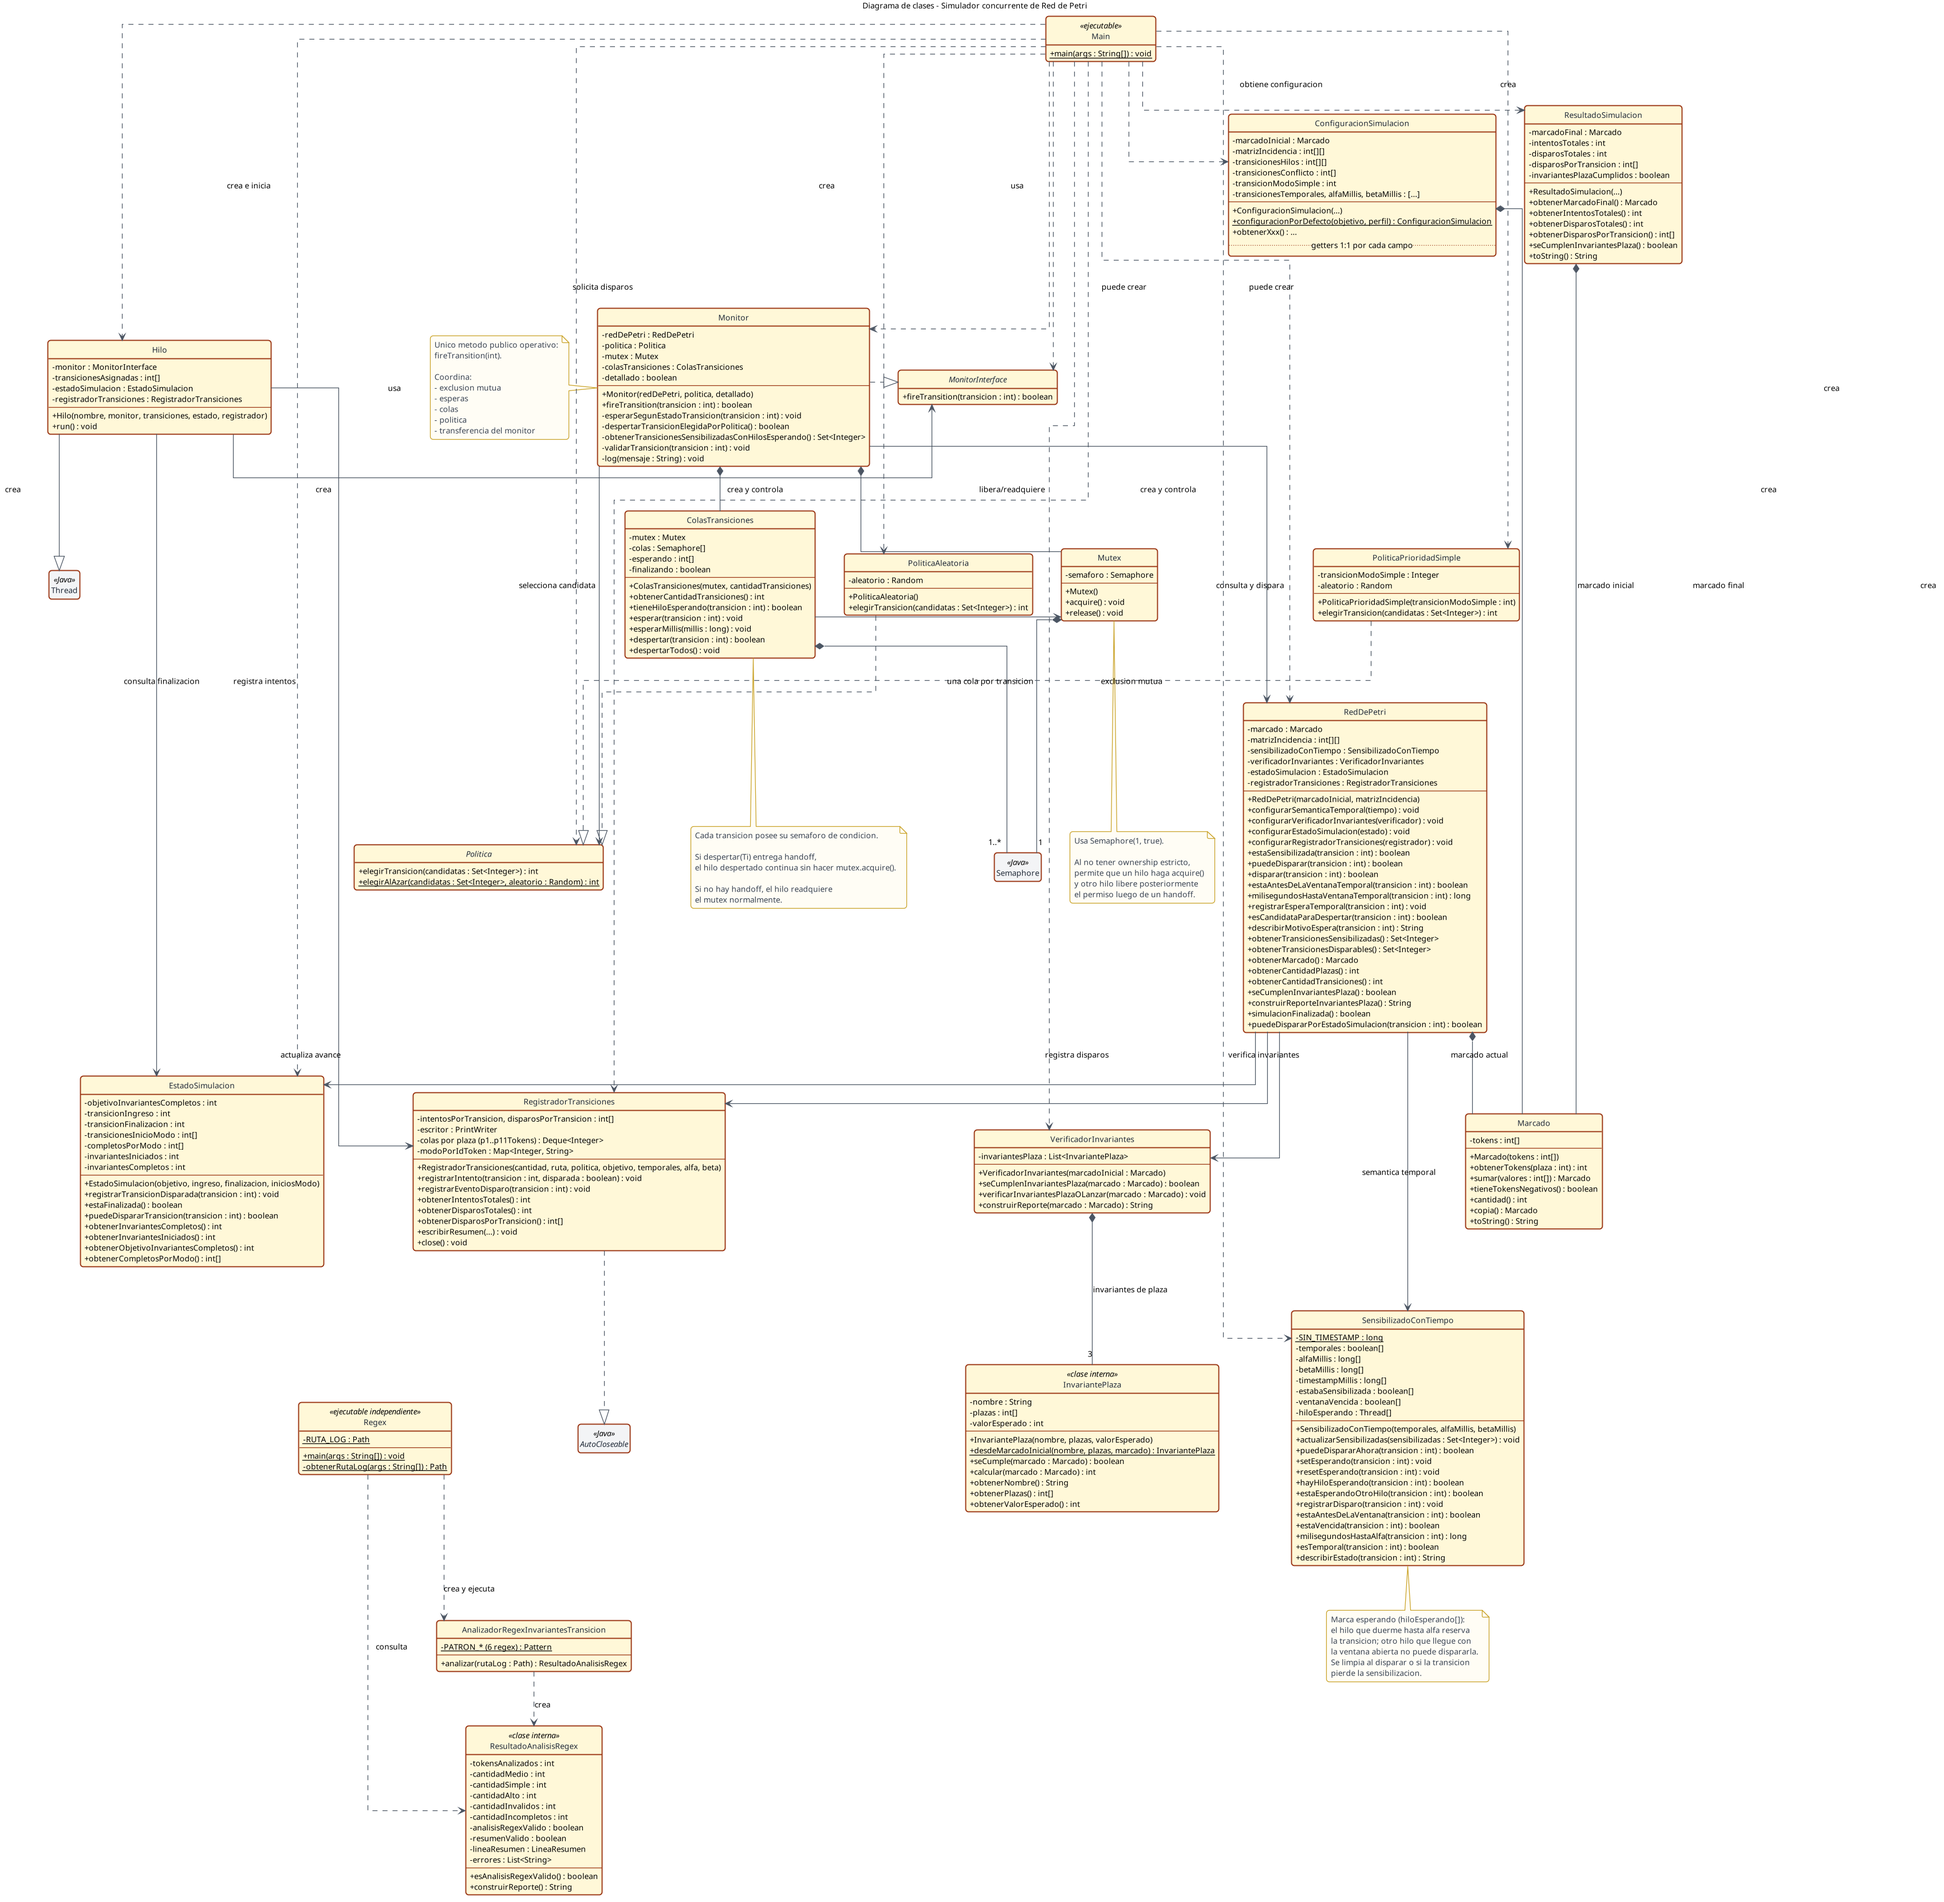
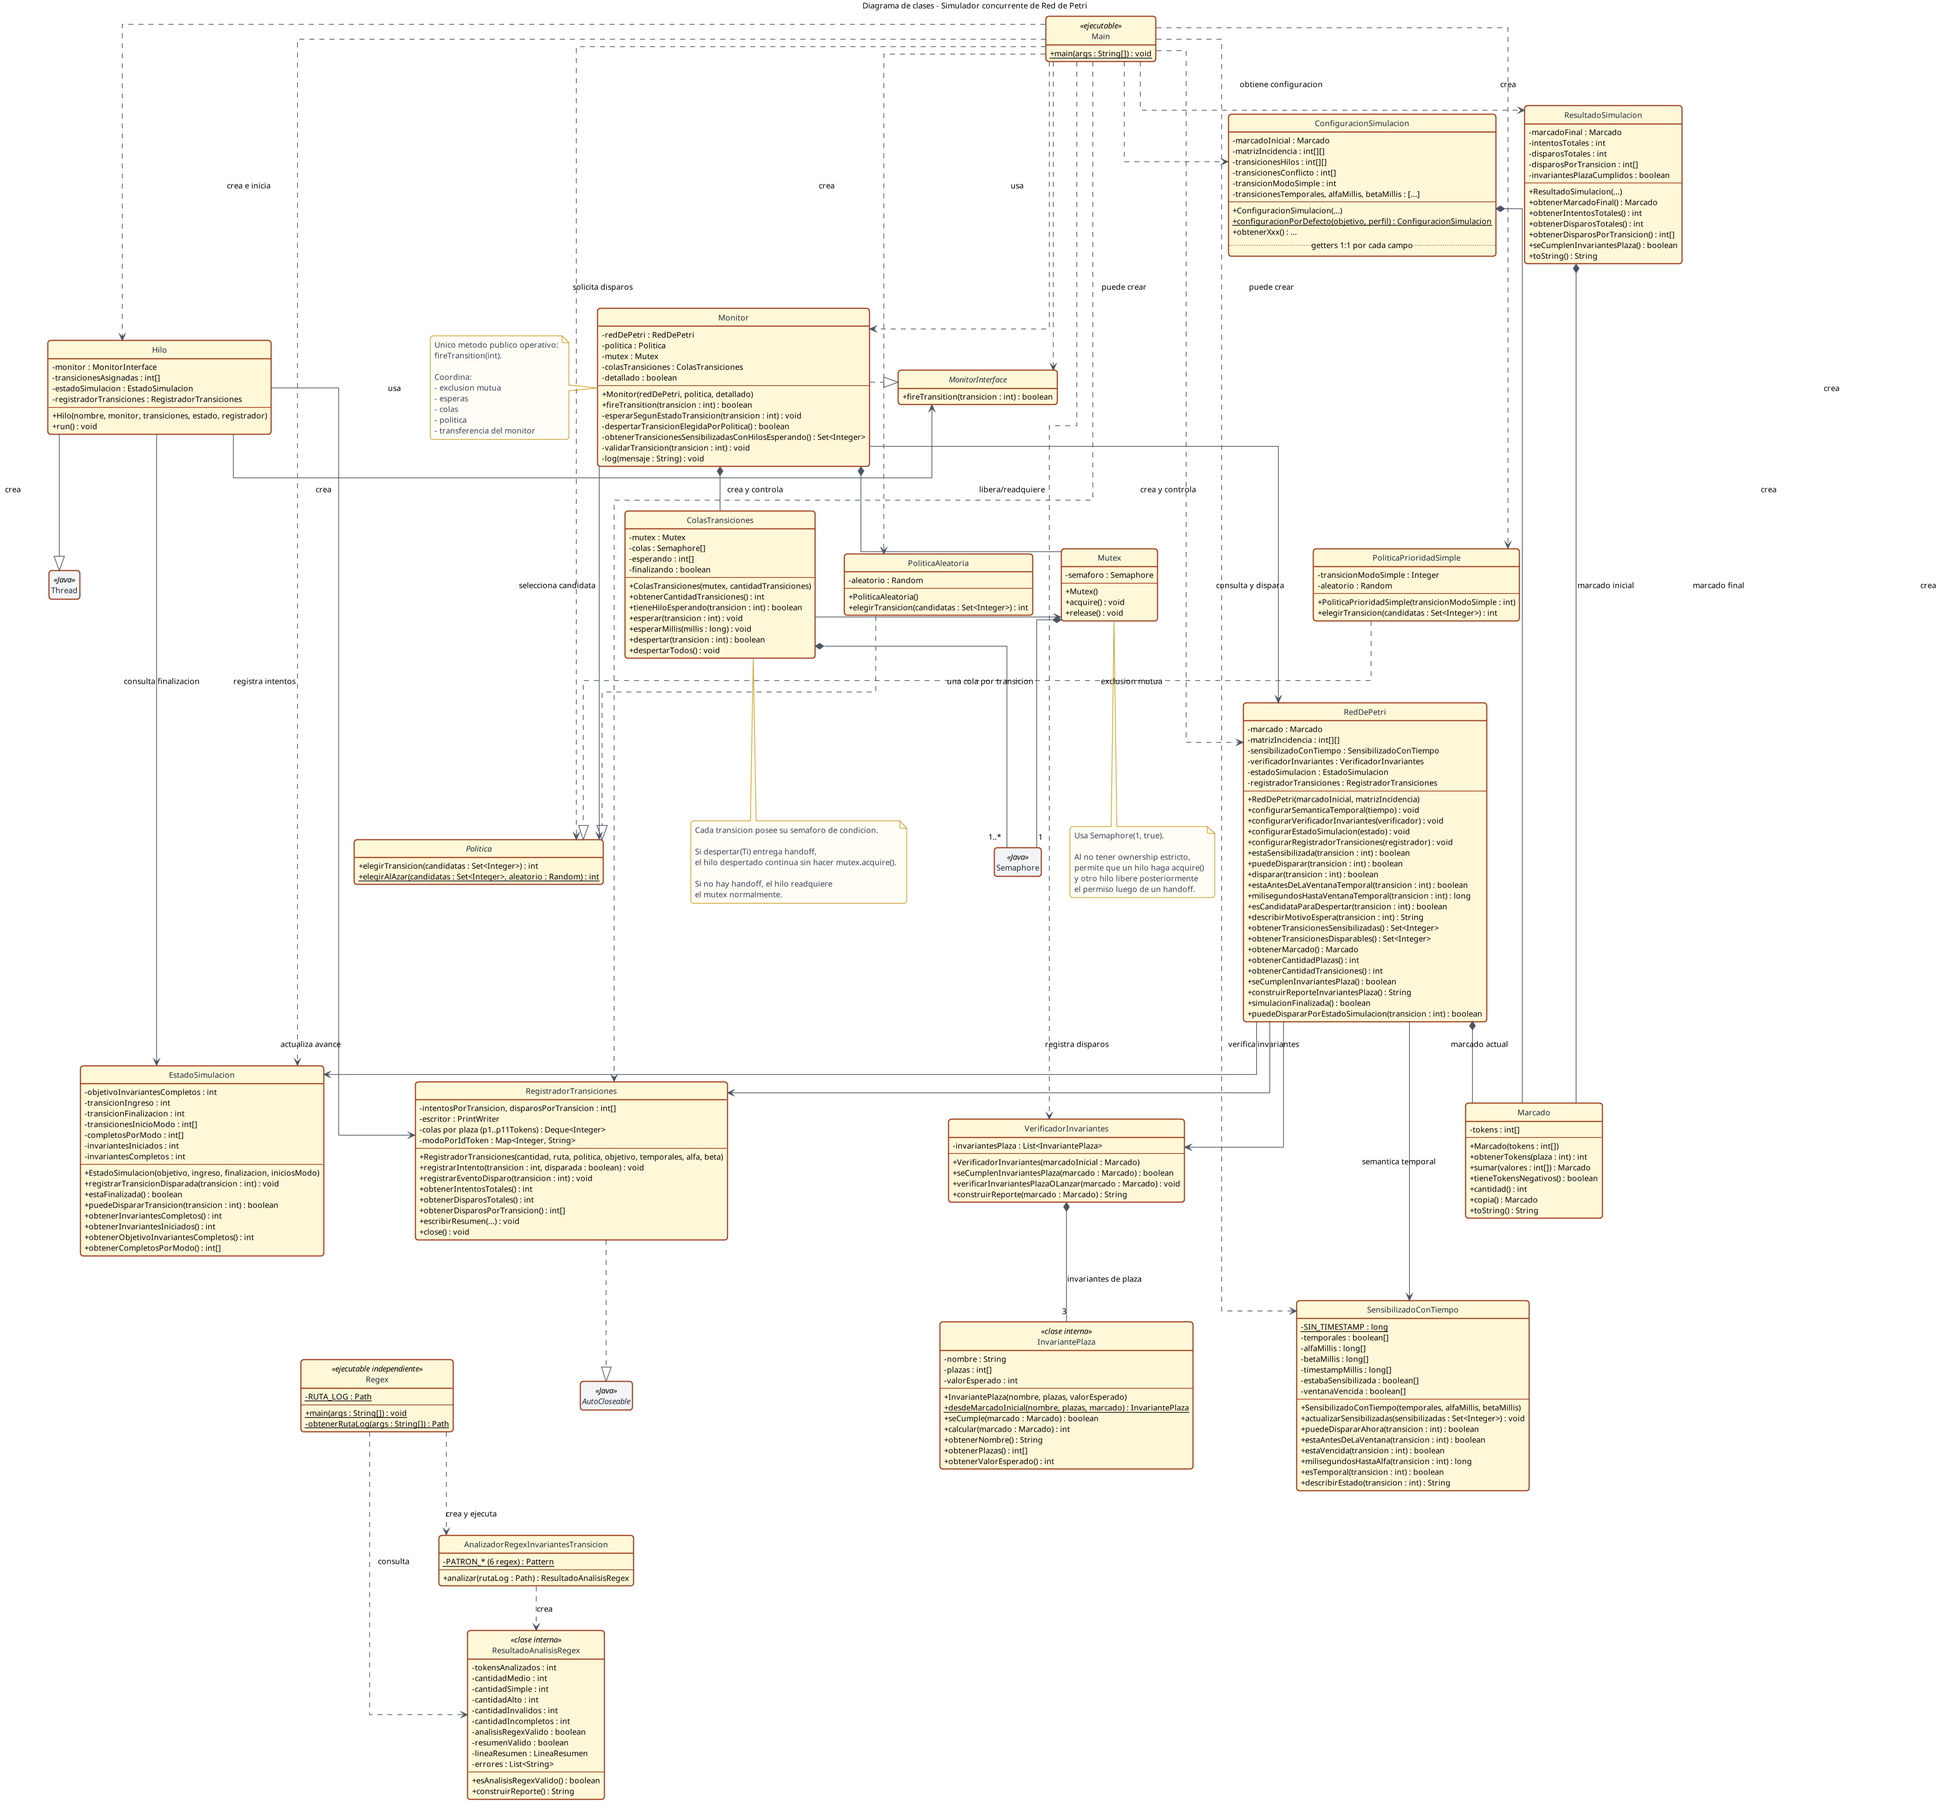
Sacar la marca esperando

diff --git a/src/main/java/ar/edu/unc/concurrente/tiempo/SensibilizadoConTiempo.java b/src/main/java/ar/edu/unc/concurrente/tiempo/SensibilizadoConTiempo.java
@@ -13,15 +13,6 @@ public class SensibilizadoConTiempo {
     private final boolean[] estabaSensibilizada;
     private final boolean[] ventanaVencida;
 
-    /*
-     * Marca "esperando" del diagrama de calculo de disparo.
-     * Guarda el hilo que esta durmiendo hasta alfa para cada transicion
-     * temporal (null si nadie espera). Mientras la marca exista, solo ese
-     * hilo ("viene de un sleep") puede disparar la transicion: otro hilo que
-     * llegue con la ventana abierta obtiene k=false y va a la cola.
-     */
-    private final Thread[] hiloEsperando;
-
     public SensibilizadoConTiempo(boolean[] temporales, long[] alfaMillis, long[] betaMillis) {
         if (temporales.length != alfaMillis.length || temporales.length != betaMillis.length) {
             throw new IllegalArgumentException("Los arreglos temporales, alfa y beta deben tener la misma longitud");
@@ -33,7 +24,6 @@ public class SensibilizadoConTiempo {
         this.timestampMillis = new long[temporales.length];
         this.estabaSensibilizada = new boolean[temporales.length];
         this.ventanaVencida = new boolean[temporales.length];
-        this.hiloEsperando = new Thread[temporales.length];
 
         Arrays.fill(this.timestampMillis, SIN_TIMESTAMP);
 
@@ -50,8 +40,6 @@ public class SensibilizadoConTiempo {
                 timestampMillis[transicion] = SIN_TIMESTAMP;
                 estabaSensibilizada[transicion] = false;
                 ventanaVencida[transicion] = false;
-                // Si perdio la sensibilizacion, la espera registrada ya no aplica.
-                hiloEsperando[transicion] = null;
                 continue;
             }
 
@@ -85,49 +73,8 @@ public class SensibilizadoConTiempo {
 
         long tiempoSensibilizada = ahora() - timestampMillis[transicion];
 
-        boolean dentroDeLaVentana = tiempoSensibilizada >= alfaMillis[transicion]
+        return tiempoSensibilizada >= alfaMillis[transicion]
                 && tiempoSensibilizada <= betaMillis[transicion];
-
-        // Diagrama: ventana==true y (esperando==false o viene de un sleep) -> k=true.
-        return dentroDeLaVentana && !estaEsperandoOtroHilo(transicion);
-    }
-
-    /** setEsperando del diagrama: el hilo actual va a dormir hasta alfa. */
-    public void setEsperando(int transicion) {
-        validarTransicion(transicion);
-
-        if (temporales[transicion] && hiloEsperando[transicion] == null) {
-            hiloEsperando[transicion] = Thread.currentThread();
-        }
-    }
-
-    /** resetEsperando del diagrama: se invoca al disparar la transicion. */
-    public void resetEsperando(int transicion) {
-        validarTransicion(transicion);
-        hiloEsperando[transicion] = null;
-    }
-
-    /** true si algun hilo esta durmiendo hasta alfa para esta transicion. */
-    public boolean hayHiloEsperando(int transicion) {
-        validarTransicion(transicion);
-        return hiloEsperando[transicion] != null;
-    }
-
-    /** true si la espera registrada pertenece a un hilo distinto del actual. */
-    public boolean estaEsperandoOtroHilo(int transicion) {
-        validarTransicion(transicion);
-        Thread hilo = hiloEsperando[transicion];
-        return hilo != null && hilo != Thread.currentThread();
-    }
-
-    /**
-     * Al disparar se limpia la marca de espera y se fuerza un nuevo timestamp
-     * si la transicion sigue sensibilizada (setNuevoTimeStamp del diagrama).
-     */
-    public void registrarDisparo(int transicion) {
-        validarTransicion(transicion);
-        resetEsperando(transicion);
-        estabaSensibilizada[transicion] = false;
     }
 
     public boolean estaAntesDeLaVentana(int transicion) {
@@ -194,8 +141,7 @@ public class SensibilizadoConTiempo {
         return "temporal elapsed=" + tiempoSensibilizada
                 + "ms alfa=" + alfaMillis[transicion]
                 + "ms beta=" + betaMillis[transicion]
-                + "ms vencida=" + estaVencida(transicion)
-                + " esperando=" + (hiloEsperando[transicion] == null ? "nadie" : hiloEsperando[transicion].getName());
+                + "ms vencida=" + estaVencida(transicion);
     }
 
     private void validarVentanas() {

diff --git a/src/main/java/ar/edu/unc/concurrente/redpetri/RedDePetri.java b/src/main/java/ar/edu/unc/concurrente/redpetri/RedDePetri.java
@@ -54,12 +54,6 @@ public class RedDePetri {
 
         marcado = calcularSiguienteMarcado(transicion);
         verificarInvariantesPlaza();
-
-        if (sensibilizadoConTiempo != null) {
-            // resetEsperando + nuevo timestamp para la transicion disparada.
-            sensibilizadoConTiempo.registrarDisparo(transicion);
-        }
-
         actualizarSensibilizadasTemporales();
         registrarDisparo(transicion);
         return true;
@@ -95,20 +89,11 @@ public class RedDePetri {
         return sensibilizadoConTiempo.milisegundosHastaAlfa(transicion);
     }
 
-    /** Registra que el hilo actual va a dormir hasta alfa (setEsperando). */
-    public void registrarEsperaTemporal(int transicion) {
-        validarTransicion(transicion);
-
-        if (sensibilizadoConTiempo != null) {
-            sensibilizadoConTiempo.setEsperando(transicion);
-        }
-    }
-
     /**
      * Candidata a despertar (vector Vs del diagrama del monitor):
-     * sensibilizada por tokens, permitida por el estado de la simulacion y
-     * sin otro hilo durmiendo hasta alfa por ella. No exige que alfa ya se
-     * haya cumplido: el hilo despertado duerme lo que falte.
+     * sensibilizada por tokens y permitida por el estado de la simulacion.
+     * No exige que alfa ya se haya cumplido: el hilo despertado duerme lo
+     * que falte.
      */
     public boolean esCandidataParaDespertar(int transicion) {
         validarTransicion(transicion);
@@ -121,8 +106,7 @@ public class RedDePetri {
             return true;
         }
 
-        return !sensibilizadoConTiempo.hayHiloEsperando(transicion)
-                && !sensibilizadoConTiempo.estaVencida(transicion);
+        return !sensibilizadoConTiempo.estaVencida(transicion);
     }
 
     public String describirMotivoEspera(int transicion) {

diff --git a/src/main/java/ar/edu/unc/concurrente/monitor/Monitor.java b/src/main/java/ar/edu/unc/concurrente/monitor/Monitor.java
@@ -97,9 +97,6 @@ public class Monitor implements MonitorInterface {
                     + redDePetri.describirMotivoEspera(transicion));
 
             if (esperaMillis > 0) {
-                // setEsperando: la transicion queda reservada para este hilo
-                // mientras duerme; al volver "viene de un sleep" y puede dispararla.
-                redDePetri.registrarEsperaTemporal(transicion);
                 colasTransiciones.esperarMillis(esperaMillis);
             }
 
